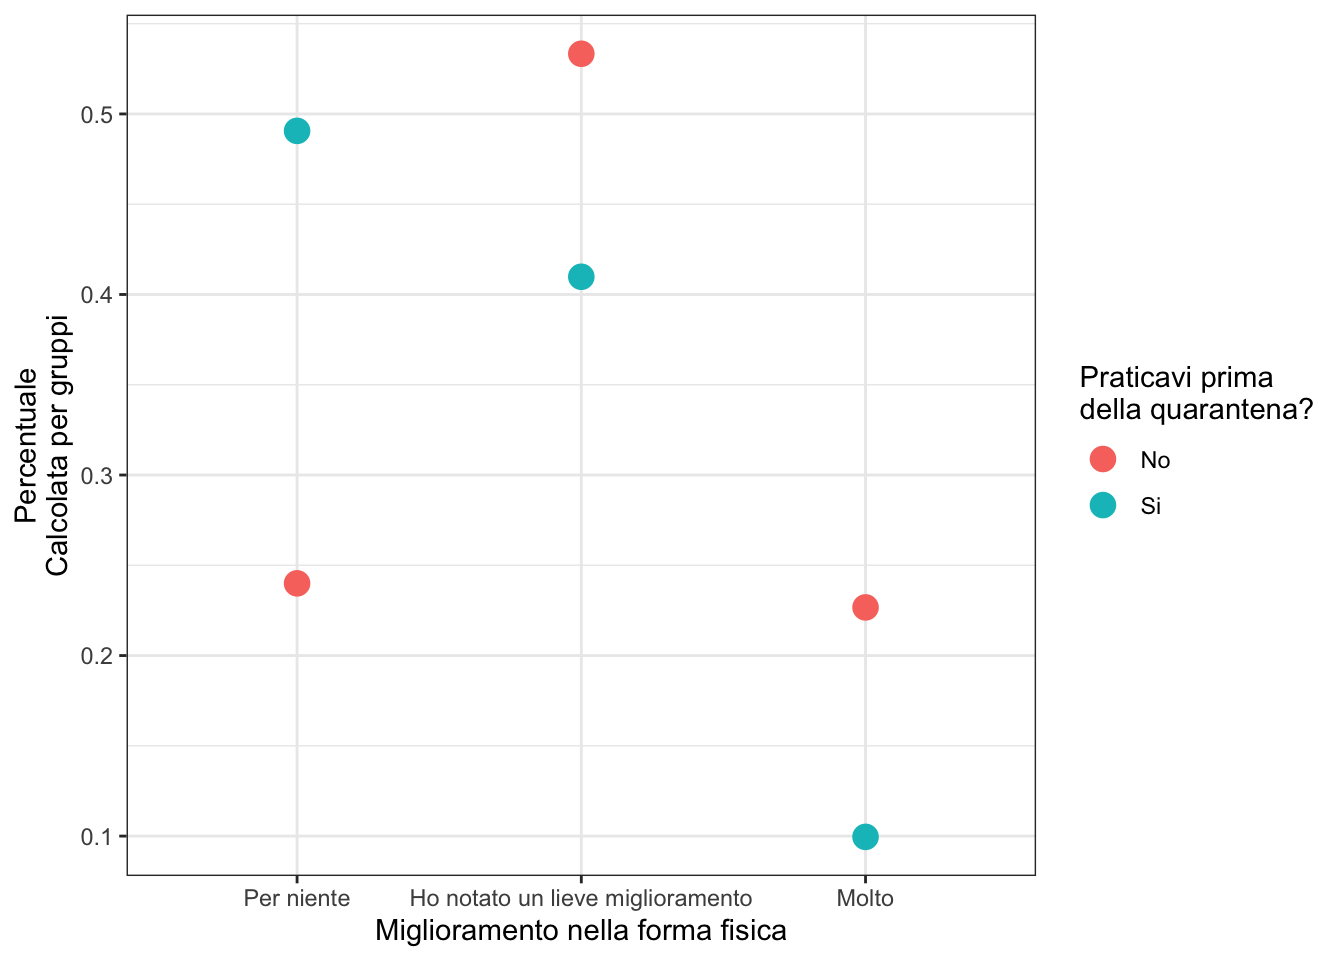
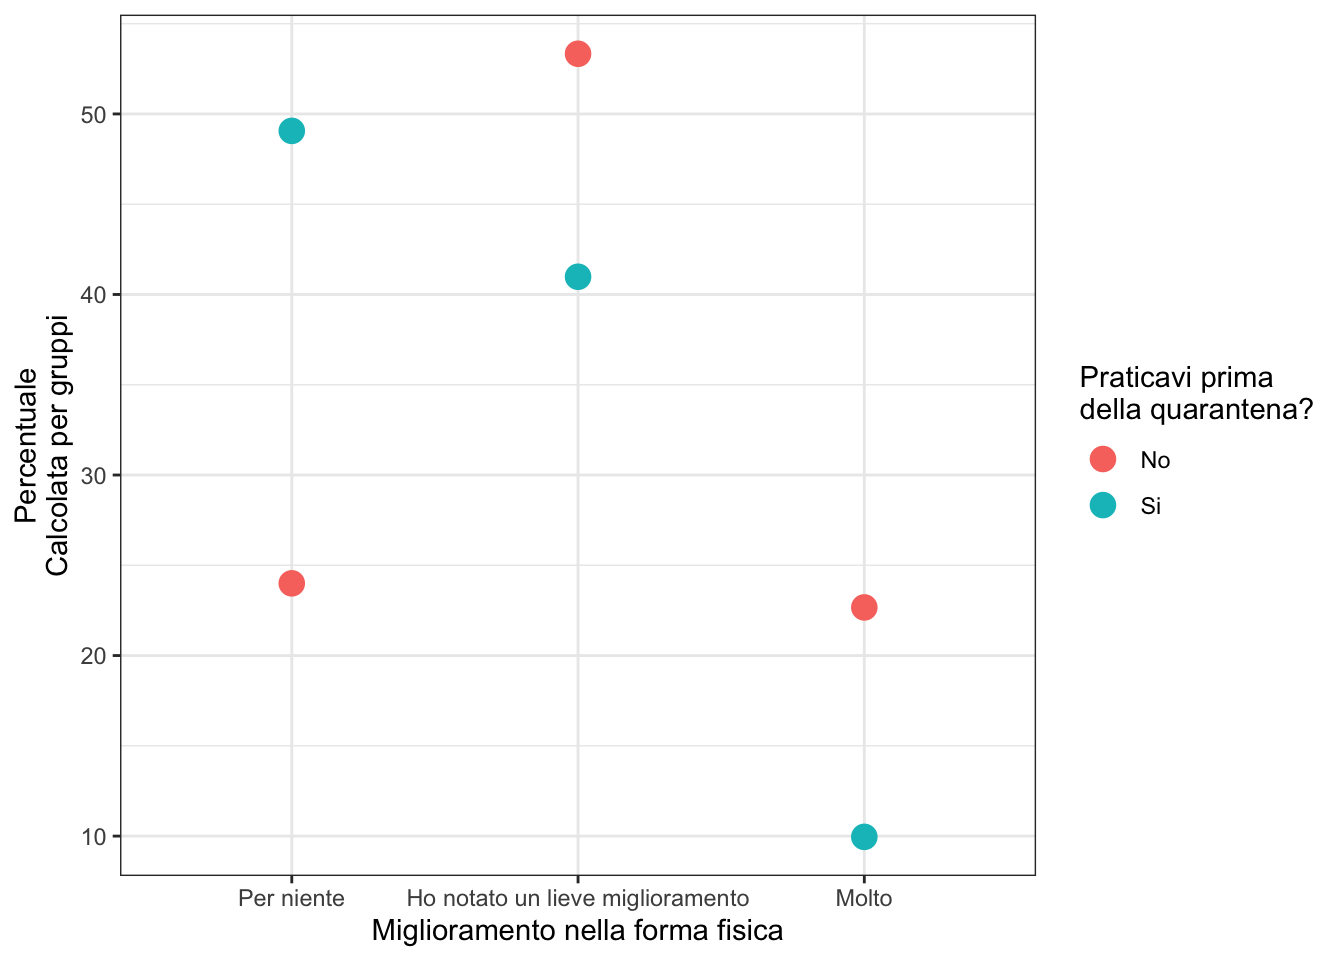
Build site.

diff --git a/docs/3.0-effetto-su-attivita-fisica.html b/docs/3.0-effetto-su-attivita-fisica.html
@@ -500,16 +500,16 @@ This reproducible <a href="http://rmarkdown.rstudio.com">R Markdown</a> analysis
 <div class="panel panel-default">
 <div class="panel-heading">
 <p class="panel-title">
-<a data-toggle="collapse" data-parent="#workflowr-checks" href="#strongRepositoryversionstrongahrefhttpsgithubcomannaquaglieri16tesimagistraleluciatree76e7f9f35ebebab2c096ad495c091e1d435de573targetblank76e7f9fa"> <span class="glyphicon glyphicon-ok text-success" aria-hidden="true"></span> <strong>Repository version:</strong> <a href="https://github.com/annaquaglieri16/tesi-magistrale-lucia/tree/76e7f9f35ebebab2c096ad495c091e1d435de573" target="_blank">76e7f9f</a> </a>
+<a data-toggle="collapse" data-parent="#workflowr-checks" href="#strongRepositoryversionstrongahrefhttpsgithubcomannaquaglieri16tesimagistraleluciatreee97bf9dad013bd1a15e55be35b84e5efcc0858cdtargetblanke97bf9da"> <span class="glyphicon glyphicon-ok text-success" aria-hidden="true"></span> <strong>Repository version:</strong> <a href="https://github.com/annaquaglieri16/tesi-magistrale-lucia/tree/e97bf9dad013bd1a15e55be35b84e5efcc0858cd" target="_blank">e97bf9d</a> </a>
 </p>
 </div>
[2 lines of base64/hex data omitted]
 <div class="panel-body">
 <p>
 Great! You are using Git for version control. Tracking code development and connecting the code version to the results is critical for reproducibility.
 </p>
 <p>
-The results in this page were generated with repository version <a href="https://github.com/annaquaglieri16/tesi-magistrale-lucia/tree/76e7f9f35ebebab2c096ad495c091e1d435de573" target="_blank">76e7f9f</a>. See the <em>Past versions</em> tab to see a history of the changes made to the R Markdown and HTML files.
+The results in this page were generated with repository version <a href="https://github.com/annaquaglieri16/tesi-magistrale-lucia/tree/e97bf9dad013bd1a15e55be35b84e5efcc0858cd" target="_blank">e97bf9d</a>. See the <em>Past versions</em> tab to see a history of the changes made to the R Markdown and HTML files.
 </p>
 <p>
 Note that you need to be careful to ensure that all relevant files for the analysis have been committed to Git prior to generating the results (you can use <code>wflow_publish</code> or <code>wflow_git_commit</code>). workflowr only checks the R Markdown file, but you know if there are other scripts or data files that it depends on. Below is the status of the Git repository when the results were generated:
@@ -559,6 +559,40 @@ Message
 </tr>
 </thead>
 <tbody>
+<tr>
+<td>
+Rmd
+</td>
+<td>
+<a href="https://github.com/annaquaglieri16/tesi-magistrale-lucia/blob/e97bf9dad013bd1a15e55be35b84e5efcc0858cd/analysis/3.0-effetto-su-attivita-fisica.Rmd" target="_blank">e97bf9d</a>
+</td>
+<td>
+Anna Quaglieri
+</td>
+<td>
+2020-06-18
+</td>
+<td>
+wflow_publish(“analysis/3.0-effetto-su-attivita-fisica.Rmd”)
+</td>
+</tr>
+<tr>
+<td>
+html
+</td>
+<td>
+<a href="https://rawcdn.githack.com/annaquaglieri16/tesi-magistrale-lucia/b9092109396b191148803636fed1042cfa44e012/docs/3.0-effetto-su-attivita-fisica.html" target="_blank">b909210</a>
+</td>
+<td>
+Anna Quaglieri
+</td>
+<td>
+2020-06-18
+</td>
+<td>
+Build site.
+</td>
+</tr>
 <tr>
 <td>
 Rmd
@@ -1025,6 +1059,17 @@ Date
 <tbody>
 <tr>
 <td>
+<a href="https://github.com/annaquaglieri16/tesi-magistrale-lucia/blob/b9092109396b191148803636fed1042cfa44e012/docs/figure/3.0-effetto-su-attivita-fisica.Rmd/unnamed-chunk-1-1.png" target="_blank">b909210</a>
+</td>
+<td>
+Anna Quaglieri
+</td>
+<td>
+2020-06-18
+</td>
+</tr>
+<tr>
+<td>
 <a href="https://github.com/annaquaglieri16/tesi-magistrale-lucia/blob/040d59f07bd8a10c6db0de32f0c731b559212306/docs/figure/3.0-effetto-su-attivita-fisica.Rmd/unnamed-chunk-1-1.png" target="_blank">040d59f</a>
 </td>
 <td>
@@ -1096,6 +1141,43 @@ Meno di una volta a settimana                Tutti i giorni
 </tbody>
 </table>
 <p><img src="figure/3.0-effetto-su-attivita-fisica.Rmd/unnamed-chunk-2-1.png" width="672" style="display: block; margin: auto;" /></p>
+<p>
+<button type="button" class="btn btn-default btn-xs btn-workflowr btn-workflowr-fig" data-toggle="collapse" data-target="#fig-unnamed-chunk-2-1">
+Past versions of unnamed-chunk-2-1.png
+</button>
+</p>
+<div id="fig-unnamed-chunk-2-1" class="collapse">
+<div class="table-responsive">
+<table class="table table-condensed table-hover">
+<thead>
+<tr>
+<th>
+Version
+</th>
+<th>
+Author
+</th>
+<th>
+Date
+</th>
+</tr>
+</thead>
+<tbody>
+<tr>
+<td>
+<a href="https://github.com/annaquaglieri16/tesi-magistrale-lucia/blob/b9092109396b191148803636fed1042cfa44e012/docs/figure/3.0-effetto-su-attivita-fisica.Rmd/unnamed-chunk-2-1.png" target="_blank">b909210</a>
+</td>
+<td>
+Anna Quaglieri
+</td>
+<td>
+2020-06-18
+</td>
+</tr>
+</tbody>
+</table>
+</div>
+</div>
 <p><strong>Motivazioni per praticare durante la quarantena</strong></p>
 <p>##TODO: dividi tutte le motivazioni e fai grafici</p>
 <table>
@@ -1358,6 +1440,43 @@ Anna Quaglieri
 </div>
 </div>
 <p><img src="figure/3.0-effetto-su-attivita-fisica.Rmd/unnamed-chunk-3-1.png" width="672" style="display: block; margin: auto;" /></p>
+<p>
+<button type="button" class="btn btn-default btn-xs btn-workflowr btn-workflowr-fig" data-toggle="collapse" data-target="#fig-unnamed-chunk-3-1">
+Past versions of unnamed-chunk-3-1.png
+</button>
+</p>
+<div id="fig-unnamed-chunk-3-1" class="collapse">
+<div class="table-responsive">
+<table class="table table-condensed table-hover">
+<thead>
+<tr>
+<th>
+Version
+</th>
+<th>
+Author
+</th>
+<th>
+Date
+</th>
+</tr>
+</thead>
+<tbody>
+<tr>
+<td>
+<a href="https://github.com/annaquaglieri16/tesi-magistrale-lucia/blob/b9092109396b191148803636fed1042cfa44e012/docs/figure/3.0-effetto-su-attivita-fisica.Rmd/unnamed-chunk-3-1.png" target="_blank">b909210</a>
+</td>
+<td>
+Anna Quaglieri
+</td>
+<td>
+2020-06-18
+</td>
+</tr>
+</tbody>
+</table>
+</div>
+</div>
 <table>
 <thead>
 <tr class="header">
@@ -1370,32 +1489,32 @@ Anna Quaglieri
 <tr class="odd">
 <td align="left">Per niente</td>
 <td align="left">No</td>
-<td align="right">0.2400000</td>
+<td align="right">24.00000</td>
 </tr>
 <tr class="even">
 <td align="left">Per niente</td>
 <td align="left">Si</td>
-<td align="right">0.4906205</td>
+<td align="right">49.06205</td>
 </tr>
 <tr class="odd">
 <td align="left">Ho notato un lieve miglioramento</td>
 <td align="left">No</td>
-<td align="right">0.5333333</td>
+<td align="right">53.33333</td>
 </tr>
 <tr class="even">
 <td align="left">Ho notato un lieve miglioramento</td>
 <td align="left">Si</td>
-<td align="right">0.4098124</td>
+<td align="right">40.98124</td>
 </tr>
 <tr class="odd">
 <td align="left">Molto</td>
 <td align="left">No</td>
-<td align="right">0.2266667</td>
+<td align="right">22.66667</td>
 </tr>
 <tr class="even">
 <td align="left">Molto</td>
 <td align="left">Si</td>
-<td align="right">0.0995671</td>
+<td align="right">9.95671</td>
 </tr>
 </tbody>
 </table>
